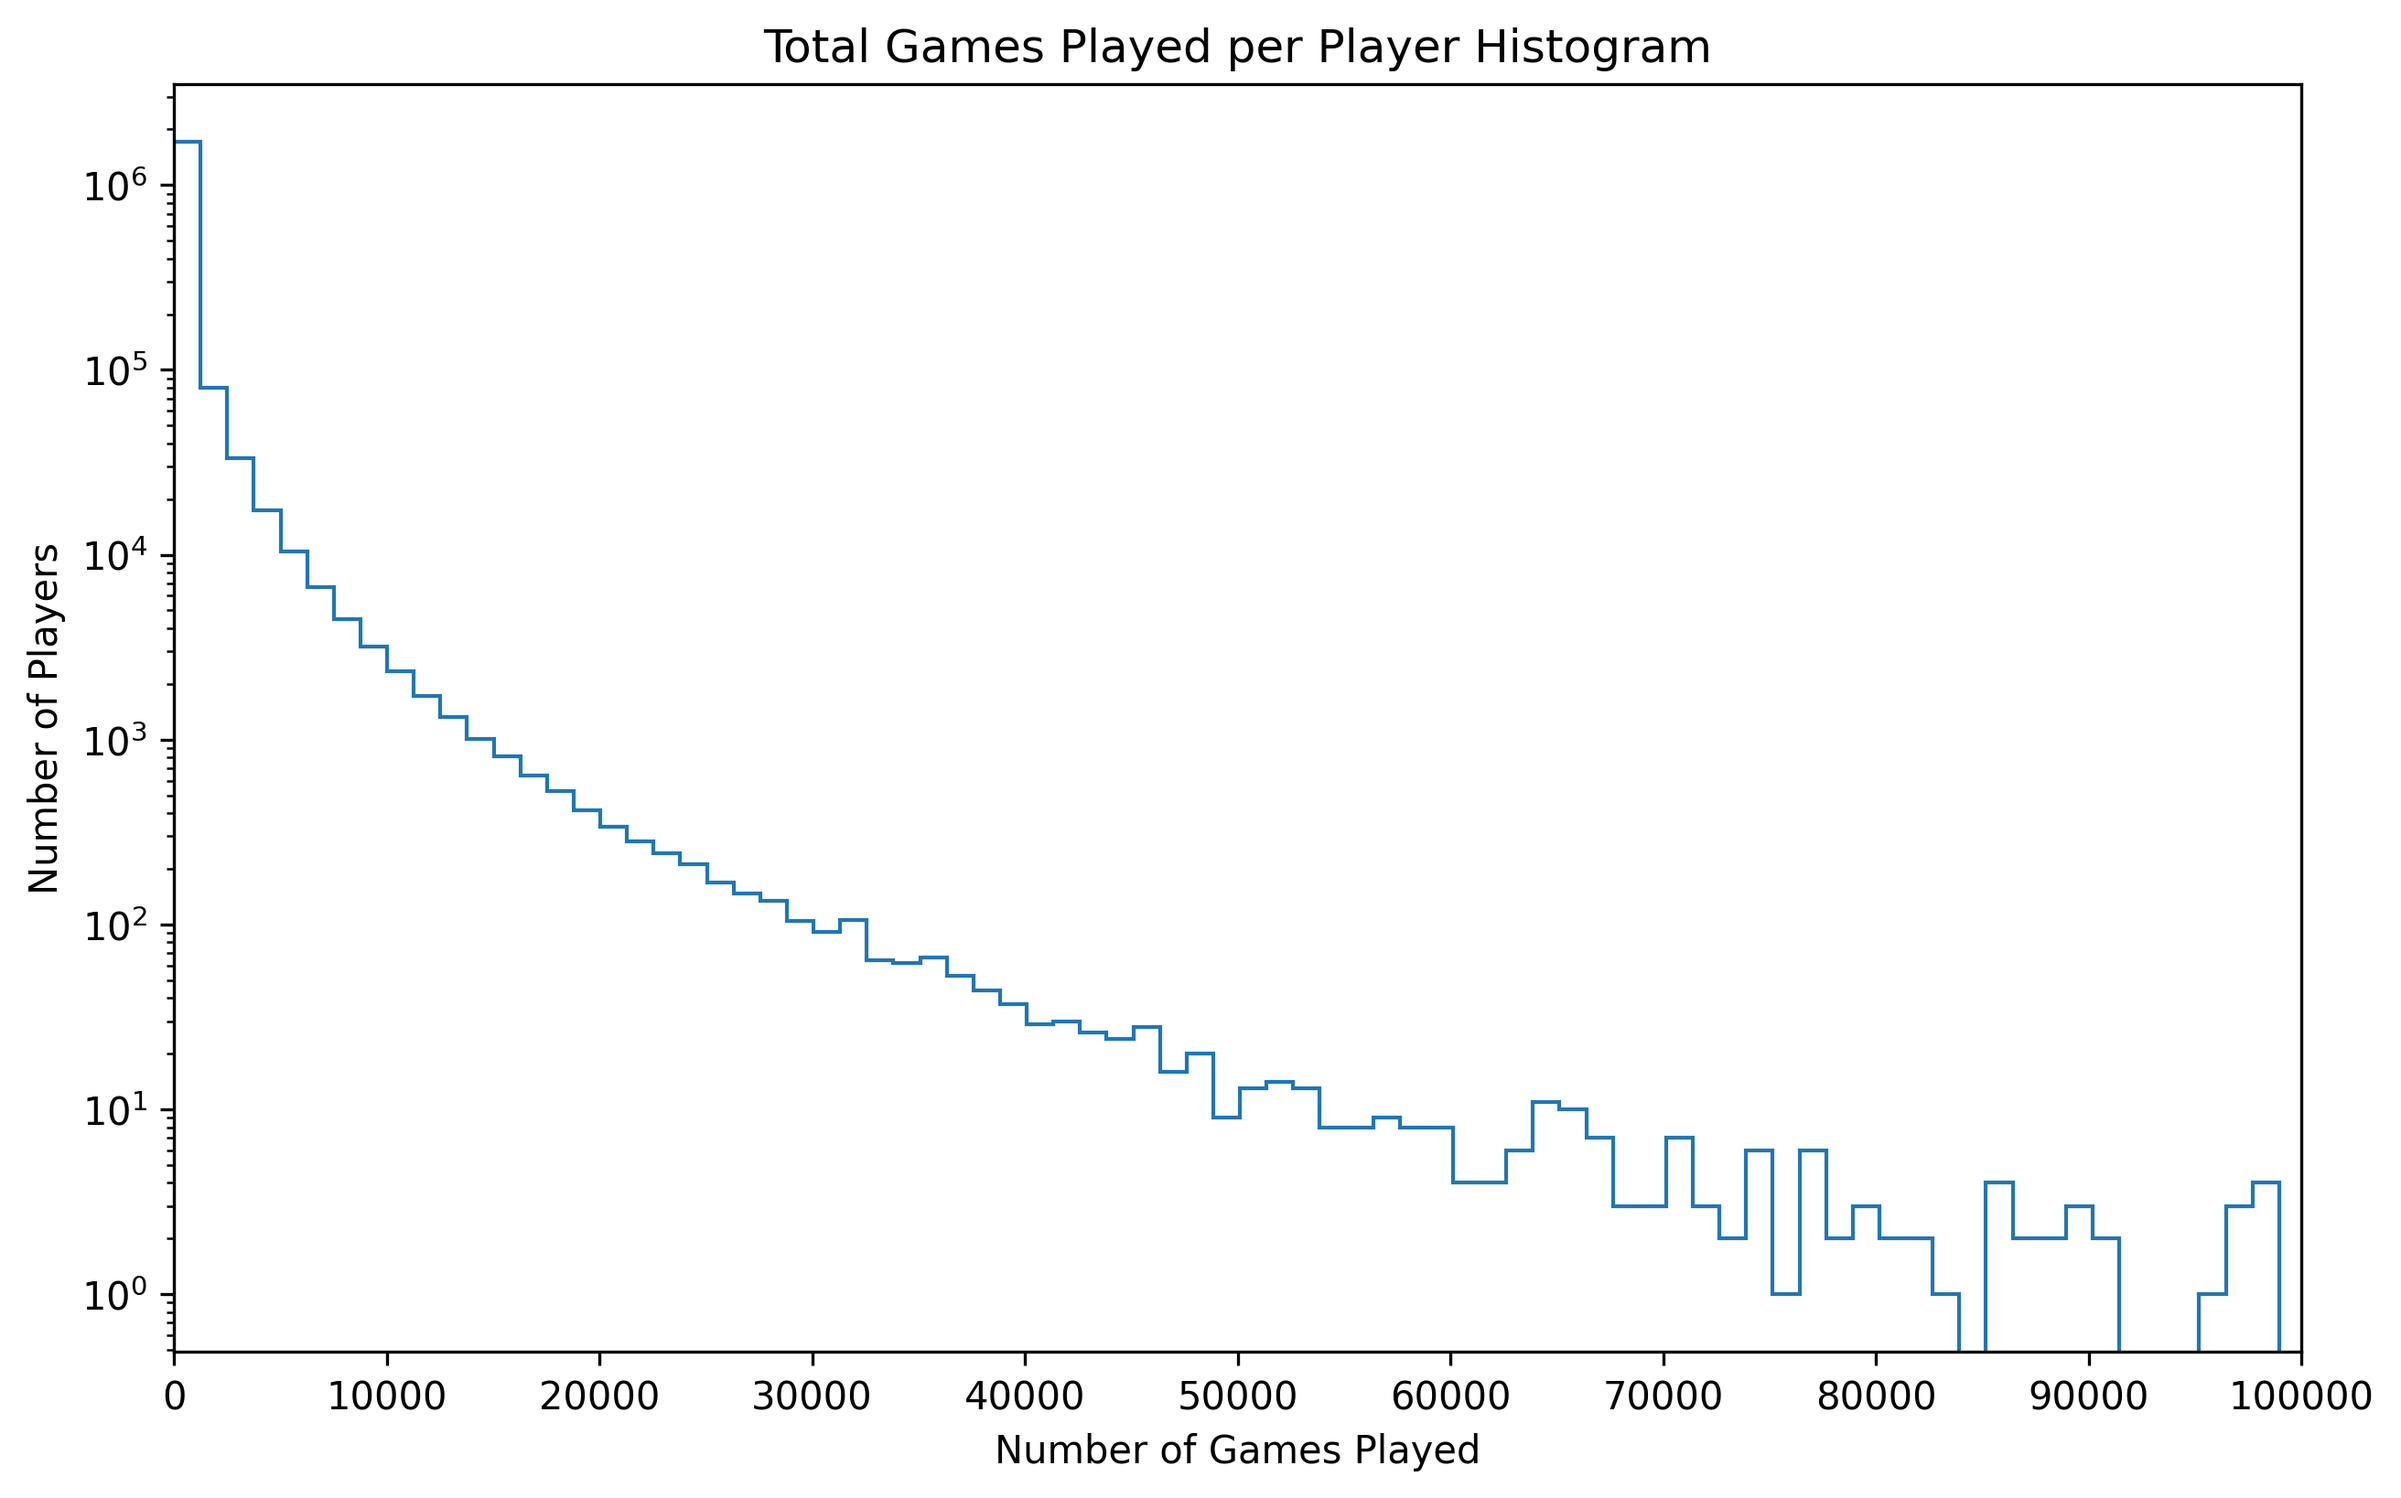
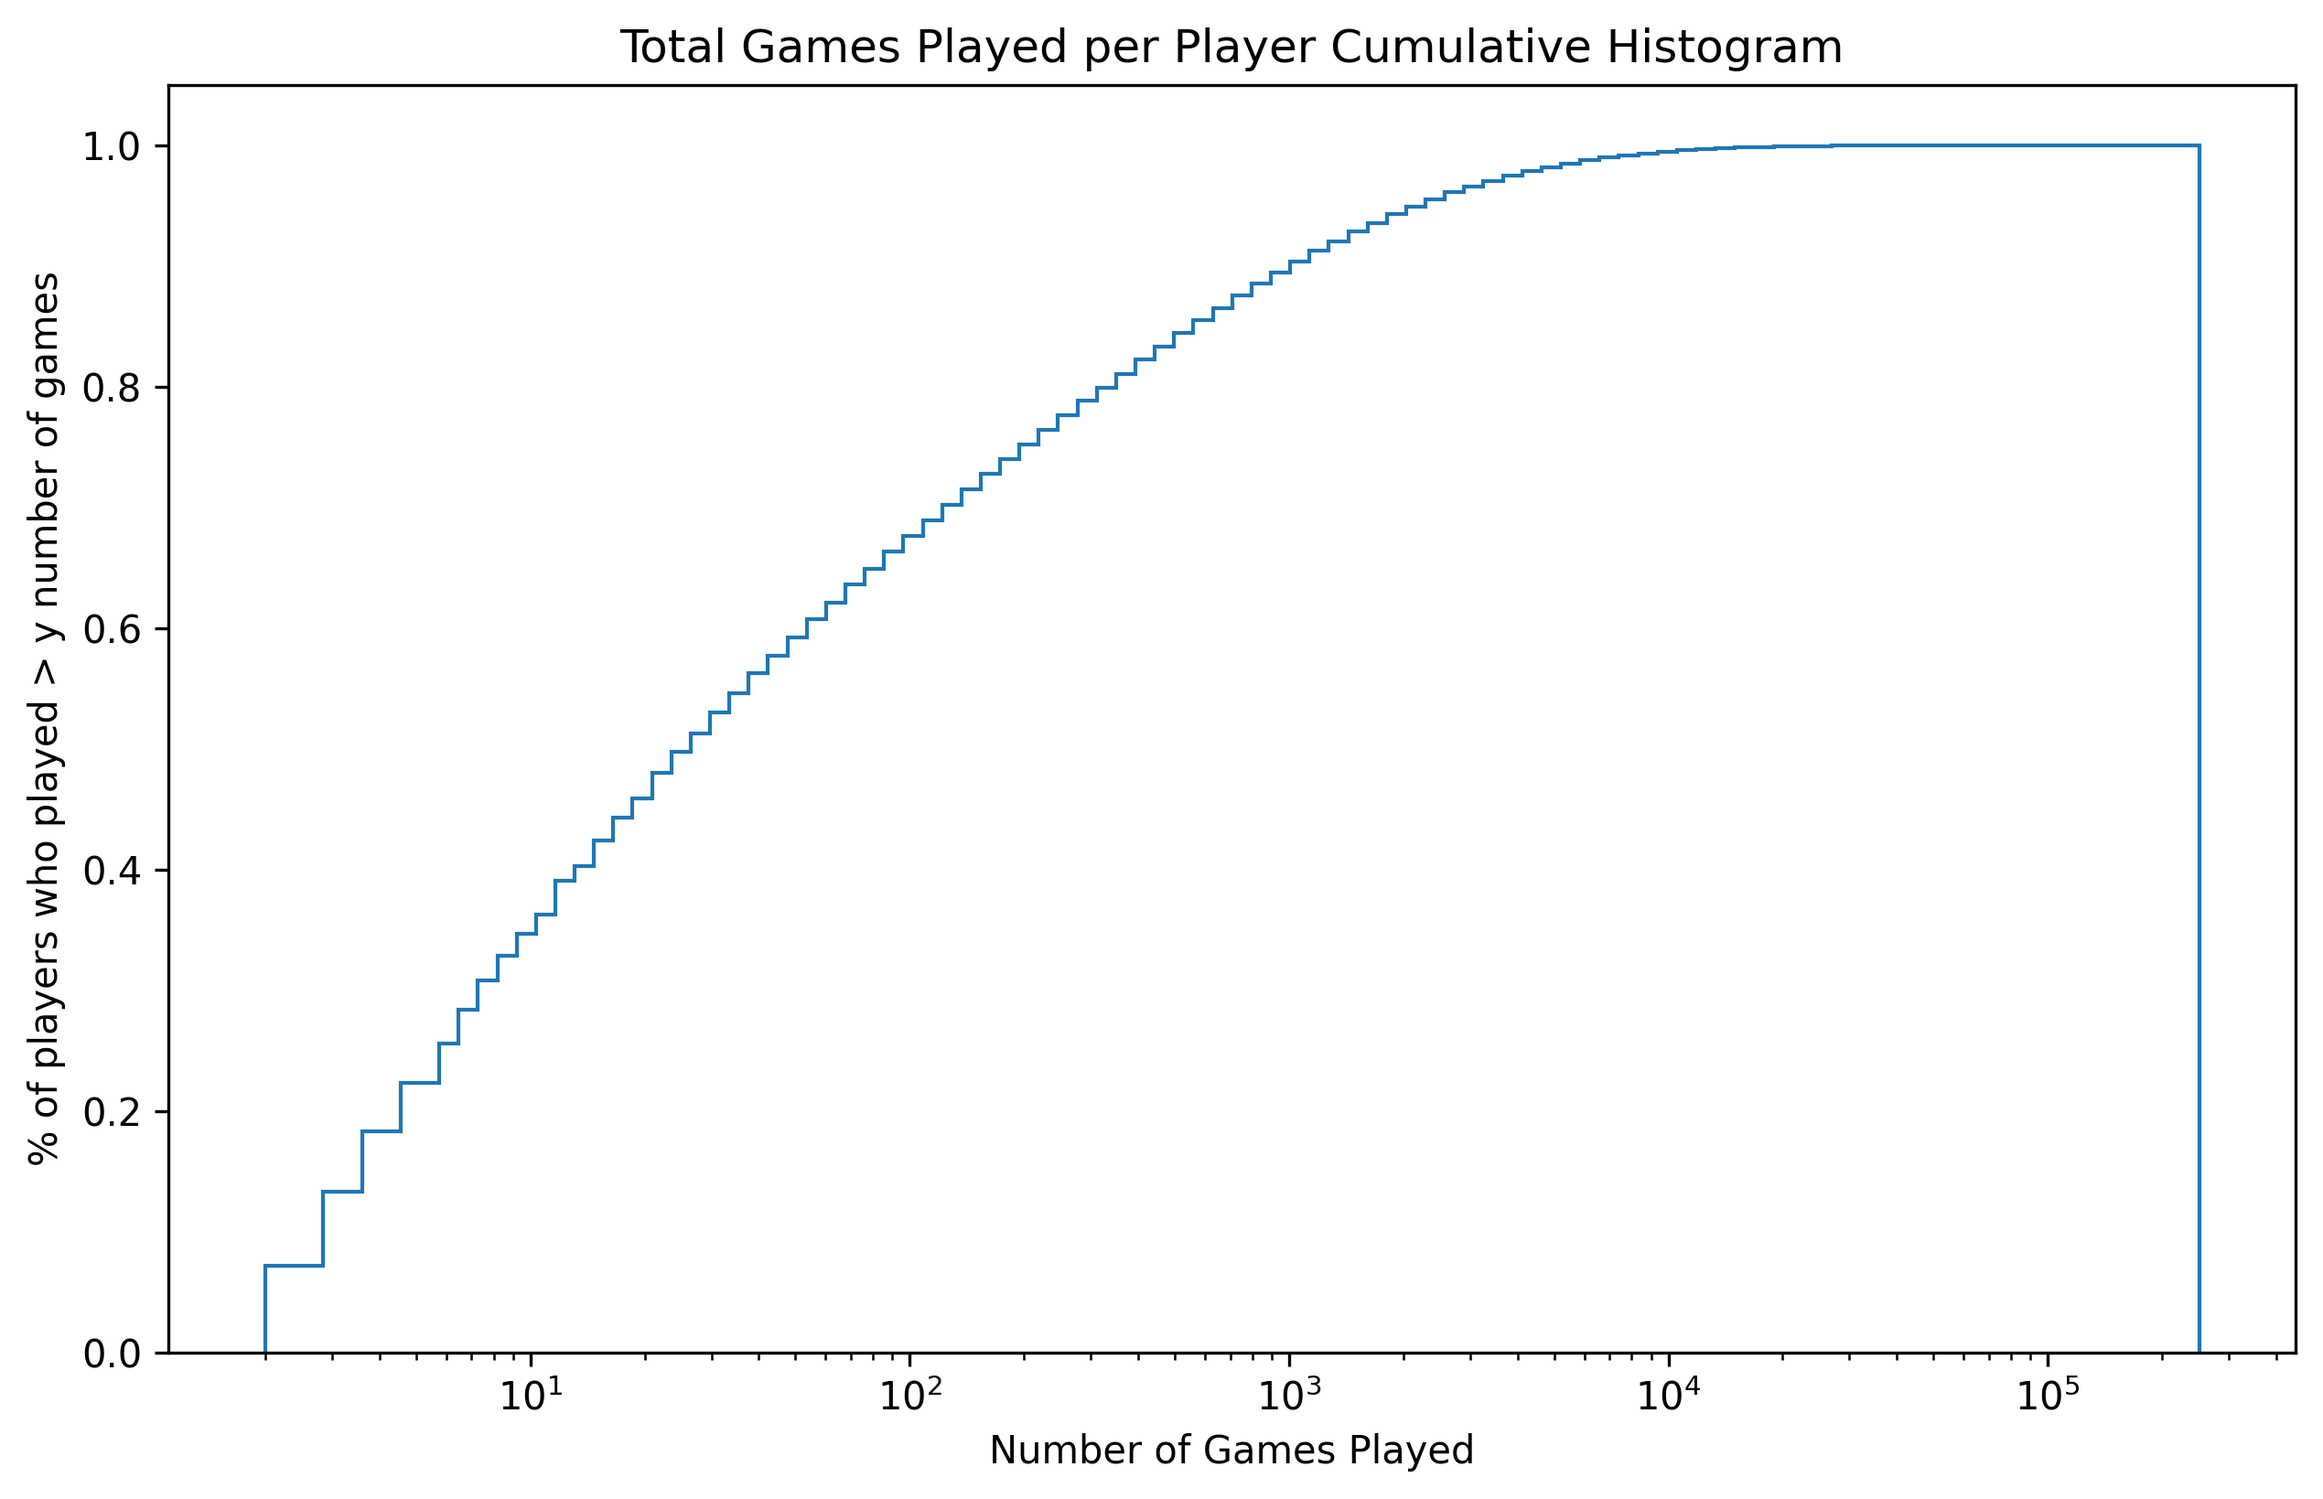
change games per player plot to CDF

diff --git a/analytics/make_plots.py b/analytics/make_plots.py
@@ -88,12 +88,14 @@ def pieplot_games_per_elo_band(filename):
 def histogram_player_churn(filename):
     df = pd.read_csv("query_out_storage/total_games_per_player.csv")
     h, ax = plt.subplots(figsize=[10,6])
-    n, bins, patches = plt.hist(df.total_games, bins=200, log=True, histtype='step')
-    ax.set_title("Total Games Played per Player Histogram")
+    n, bins, patches = plt.hist(df.total_games, bins=100, log=False, histtype='step')
+    logbins = np.logspace(np.log10(bins[0]), np.log10(bins[-1]), len(bins))
+    h, ax = plt.subplots(figsize=[10,6])
+    plt.hist(df.total_games, bins=logbins, log=False, density=True, cumulative=1, histtype='step')
+    plt.xscale('log')
+    ax.set_title("Total Games Played per Player Cumulative Histogram")
     ax.set_xlabel("Number of Games Played")
-    ax.set_ylabel("Number of Players")
-    plt.xticks(np.arange(0, max(df.total_games)+1, 10000))
-    plt.xlim([0,100000])
+    ax.set_ylabel("% of players who played x number of games or less")
     plt.savefig(filename, dpi=300, bbox_inches='tight')
     print("median games played per player: ", np.median(df.total_games))
     print("average games played per player: ", np.average(df.total_games))
@@ -204,8 +206,8 @@ if __name__ == "__main__":
     #lineplot_games_by_time_and_day("./plots/popular_play_times/games_by_time_and_day.png")
     #barplot_games_by_day("./plots/popular_play_times/games_by_day.png")
     #pieplot_games_per_elo_band("./plots/games_per_elo_bracket.png")
-    #histogram_player_churn("./plots/games_per_player.png")
+    histogram_player_churn("./plots/games_per_player.png")
     #barplot_pct_analyzed_per_elo_bracket("./plots/pct_analyzed_per_elo_bracket.png")
     #lineplot_elo_vs_days("./plots/blitz_elo_over_time/blitz_elo_over_time.png")
     #lineplot_elo_vs_months()
-    lineplot_elo_vs_months(rating_diff_cutoff=100)
+    #lineplot_elo_vs_months(rating_diff_cutoff=100)
